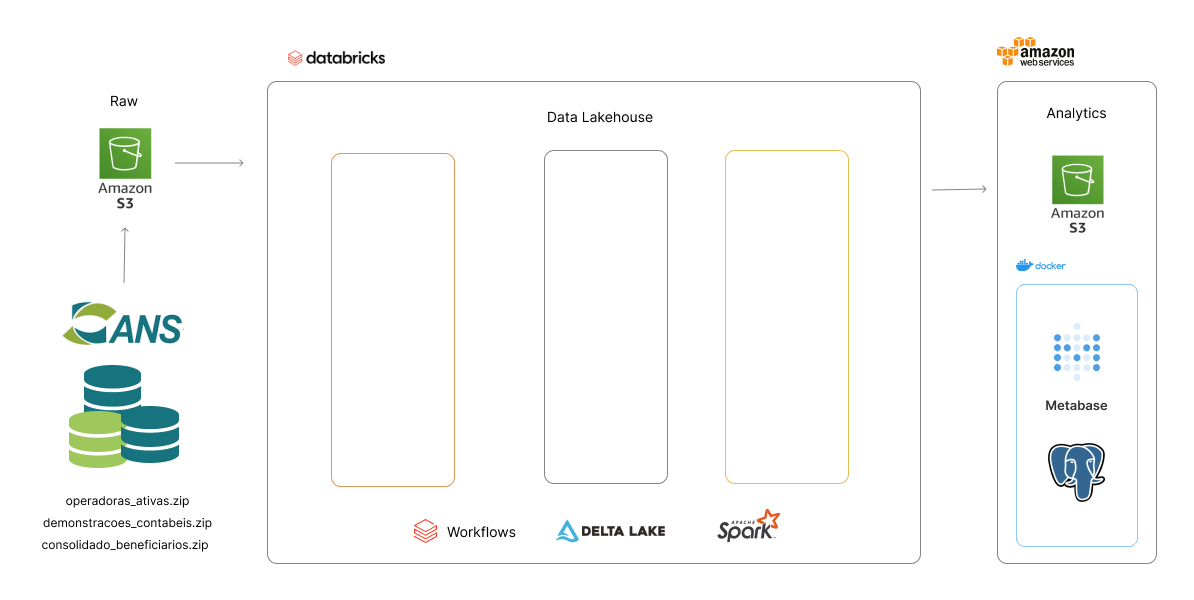
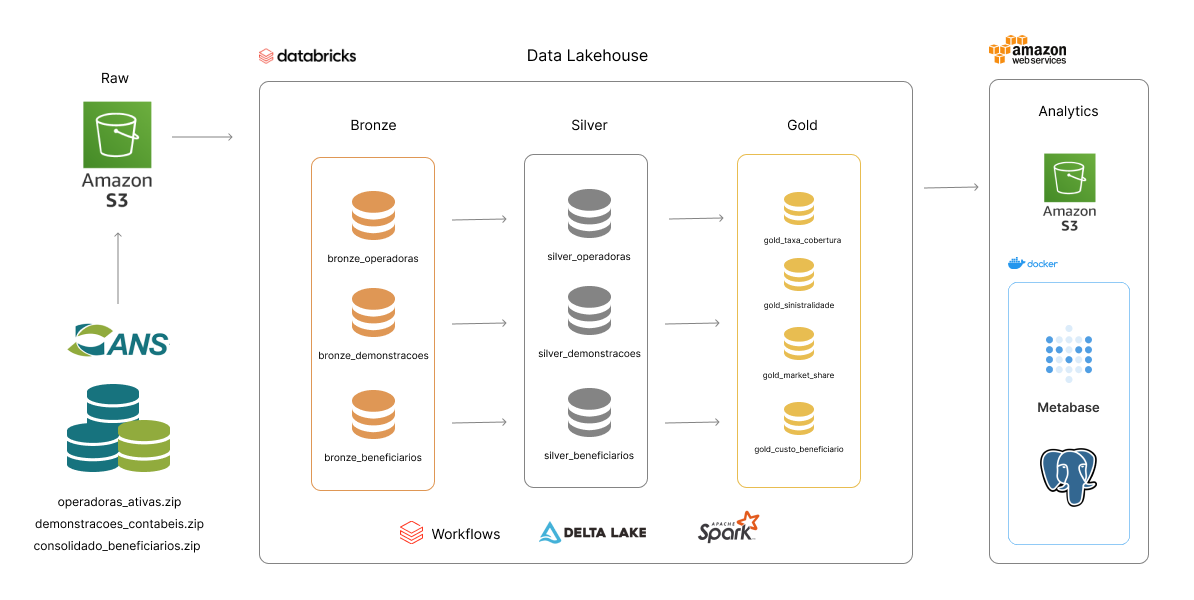
Documentação do projeto #2

diff --git a/README.md b/README.md
@@ -15,7 +15,15 @@ Trabalho de conclusão do módulo de Engenharia de Dados do curso de Pós-gradua
 - [3. Modelagem](#modelagem)
   - [3.1 Delta Lakehouse](#delta-lakehouse)
   - [3.2 Linhagem dos Dados](#linhagem-dos-dados)
+  - [3.3 Exemplo: Custo por Beneficiário](#exemplo-custo-por-beneficiário)
 - [4. Carga](#carga)
+  - [4.1 Export para AWS](#export) 
+  - [4.2 Databricks Workflows](#databricks-workflows)
+- [5. Análise](#análise)
+  - [5.1 Qualidade](#qualidade)
+  - [5.2 Perguntas](#perguntas-1)
+  - [5.3 Metabase](#metabase)
+- [6. Autoavaliação](#autoavaliação)
 
 ## Objetivo
 
@@ -49,11 +57,11 @@ As perguntas/problemas que desejo responder através das análises são:
 
 ## Coleta
 
-A ANS disponbiliza todos os seus dados abertos através de um servidor FTP em sua Plataforma de Dados Abertos, que pode ser acessado através do [link](https://dadosabertos.ans.gov.br/FTP/PDA/).
+A ANS disponbiliza todos os seus dados através de um servidor FTP em sua Plataforma de Dados Abertos, que pode ser acessado através do [link](https://dadosabertos.ans.gov.br/FTP/PDA/).
 
 Os dados tem boa qualidade, no geral, e são bem organizados, sendo a grande maioria acompanhada de uma arquivo de metadados ou catálogo. Algums catálogos informam, inclusive, que alguns campos são chaves estrangeiras de tabelas em outros conjuntos de dados, o que é muito útil.
 
-Alguns dados utlizados, como apresentado, tem grandes volumes, como o cadastro de beneficiário ativos, divulgado mensalmennte, que possui cerca de 10GB em arquivos .csv, totalizando cerca de 14,5 milhões de registros e 22 atributos.
+Alguns dados utlizados, como apresentado, tem grandes volumes, como o cadastro de beneficiário ativos, divulgado mensalmennte, que possui cerca de 10 GB em arquivos .csv, totalizando cerca de 14,5 milhões de registros e 22 atributos.
 
 Os dados são disponibilizados em arquivos compactados .zip, por isso, o código para coleta de dados envolvia, quase sempre, extrair os arquivos, lê-los em memória, e salvar em um volume no Databricks, que serviu como landing/camada raw.
 
@@ -137,38 +145,148 @@ class Collector:
 
 ## Modelagem
 
-O modelo de dados escolhido para o trabalho foi o Data Lake, que consiste salvar em um storage dados estruturados e não-estruturados, sem um schema definido, que serão trabalhados em outras etapas ou consumidos por aplicações.
+O modelo escolhido para o trabalho foi o Data Lake, que consiste em salvar os dados estruturados e não-estruturados, sem um schema definido, que serão trabalhados em outras etapas ou consumidos por aplicações.
 
-O problema dos data lakes tradicionais é que os dados são salvos da mesma forma que foram capturados, o que significa - geralmente - que esses dados tem baixa qualidades e não passaram por *constrains* e camadas de processamentos.
+O problema dos data lakes tradicionais é que os dados são salvos da mesma forma que foram capturados, o que significa - geralmente - que esses dados tem baixa qualidades e não passaram por *constrains* e camadas de processamento.
 
 ### Delta Lakehouse
 
-Uma solução para esse problema, muito utilizada na plataforma do Databricks, é o framework open-source **Delta Lake** e a arquitura de Data Lakehouses.
+Uma solução para esse problema, muito utilizada na plataforma do Databricks pela fácil integração, é o framework open-source **Delta Lake** e a arquitura de Data Lakehouses.
 
-Esse framework consiste em uma camada de abstração construída em cima do seu data lake tradicional (Amazon S3, por exemplo), que incentiva a criação de fluxos de dados em camadas, em que cada camada o dado é tratado e é incrementado em nívle de qualidade.
+Esse framework consiste em uma camada de abstração construída em cima do seu data lake tradicional (Amazon S3, por exemplo), que incentiva a criação de fluxos de dados em camadas, em que cada camada o dado é tratado e é trabalhado em níveis incrementais de qualidade.
 
 Essas camadas são:
 
-- **Bronze:** tabelas em formato bruto, com máximo de fidelidade ao dado coletado;
+- **Bronze:** tabelas em formato bruto, com máximo de fidelidade ao dado original coletado;
 - **Silver:** tabelas com estrutura e schema definidos, realizada limpeza e enriquecimento nos dados;
 - **Gold:** tabelas agregadas com métrias de interesse de acordo com a regra de negócio.
 
 ![Delta Lake](/images/delta-lake.png)
 
-### Linhagem dos Dados
+### Linhagem dos Dados e Metastore
 
-A pipeline construída no trabalho utiliza o framework Delta e as tabelas são processadas em camadas bronze, silver e gold. Para ilustrar esse processo de modelagem, podemos observar a linhagem da tabela "gold.ans.custo_beneficiario", que utiliza 3 tabelas bronze como fonte.
+A pipeline do trabalho utiliza o framework Delta e as tabelas são processadas em camadas bronze, silver e gold. 
+
+Ao salvar as tabelas em formato `delta` e utilizando o Unity Catalog, é possível usufruir de funcionalidades integradas do **metastore** do Databricks, como controle de acesso, métrica de uso, visualização de schema e linhagem dos dados.
+
+Para ilustrar essa funcionalidade, podemos observar o diagram de linhagem da tabela `gold.ans.custo_beneficiario`, que utiliza 3 (três) tabelas bronze como fonte primária.
 
 ![Linhagem do Custo por Beneficiário](/images/custo-beneficiario-lineage.png)
 
-Podemos observar como as tabelas na camada bronze (à esquerda da imagem) possuem mais dimensionalidade e, conforme as tabelas avançam no fluxo, é definido um schema, até chegar na tabela *gold* que será consumida para *analystics*.
+Podemos observar o *schema* das tables e como na camada bronze (à esquerda da imagem) essas tabelas possuem maior dimensionalidade, além de dados em tipos inapropriados, nomes de colunas de diferentes formatos, entre outras características de dados com menos qualiades.
 
-A tabela final possui apenas 3 (três) domínios:
+Um exemplo é a coluna "CNPJ" da tabela `bronze.ans.operadoras`, que ao ser lida pelo Spark, foi inferida com tipo `bigint`, enquanto o correto seria `string`. Essa transformação é feita na camada silver e na tabela `silver.ans.operadoras` já podemos ver a mudança feita. 
+
+O código utilizado para transformação desses dados na camada silver pode ser encontrado em [/src/silver/silver_operadoras.py](https://github.com/ianaraujo/puc-engenharia-dados/blob/master/src/silver/silver_operadoras.py).
+
+silver_operadoras.py
+
+```python
+df = spark.sql(f'SELECT * FROM bronze.{schema}.{table}')
+
+upper_cols = [col.upper() for col in df.columns]
+
+df = df.toDF(*upper_cols)
+
+final = df \
+    .withColumn('REGISTRO_ANS', df['REGISTRO_ANS'].cast('string')) \
+    .withColumn('RAZAO_SOCIAL', F.regexp_replace(F.col('RAZAO_SOCIAL'), r'[./]', '')) \
+    .withColumn('RAZAO_SOCIAL', F.regexp_replace(F.col('RAZAO_SOCIAL'), r'\b(LTDA|SA|EIRELI|ME|EPP)\b', '')) \
+    .withColumn('RAZAO_SOCIAL', F.regexp_replace(F.col('RAZAO_SOCIAL'), r' - $', '')) \
+    .withColumn('CNPJ', df['CNPJ'].cast('string')) \
+    .select(
+        'DATA_REGISTRO_ANS',
+        'REGISTRO_ANS',
+        'CNPJ',
+        'RAZAO_SOCIAL',
+        'NOME_FANTASIA',
+        'MODALIDADE'
+    )
+
+final = final.withColumn('NOME_FANTASIA', F.when(
+    F.col('NOME_FANTASIA').isNull(), F.col('RAZAO_SOCIAL')).otherwise(F.col('NOME_FANTASIA')
+))
+
+
+final.write.mode('overwrite').format('delta').saveAsTable(f'silver.{schema}.{table}')
+```
+
+Destaque para o código que transforma os dados da coluna "CNPJ" em `string`.
+
+```python
+.withColumn('CNPJ', df['CNPJ'].cast('string'))
+```
+
+Além dessa transformação, na camada `silver`, é feito um tratamento da "RAZAO_SOCIAL", removendo termos comuns (LTDA, SA, EIRELI). Quando "NOME_FANTASIA" é `NULL`, o código substitui pela razão social.
+
+### Exemplo: Custo por Beneficiário
+
+Dessa forma, conforme as tabelas avançam no fluxo, é definido um schema, até chegar na tabela *gold* que será consumida no ambiente de *analytics*.
+
+A tabela `gold.ans.custo_beneficiario`, que calcula um indicador setorial relacionado à eficiência da operadora, é um bom exemplo, pois utiliza todas as 3 (três) fontes primárias para ser construída.
+
+Nessa camada, na maioria dos casos, utilizei a linguagem SQL para criar as tabelas:
+
+[custo_beneficiario.sql](https://github.com/ianaraujo/puc-engenharia-dados/blob/master/src/gold/custo_beneficiario.sql)
+
+```sql
+CREATE OR REPLACE TABLE gold.ans.custo_beneficiario
+USING DELTA AS (
+  WITH despesas AS (
+    SELECT ANO, REG_ANS, AVG(VL_SALDO_INICIAL) AS TOTAL_DESPESAS
+    FROM silver.ans.demonstracoes_contabeis
+    WHERE ANO = 2023 AND CD_CONTA_CONTABIL = '41'
+    GROUP BY ANO, REG_ANS
+  ),
+
+  beneficiarios AS (
+    SELECT CD_OPERADORA, SUM(TOTAL_BENEFICIARIOS) AS NUM_BENEFICIARIOS
+    FROM gold.ans.num_beneficiarios
+    GROUP BY CD_OPERADORA
+  ),
+
+  operadoras AS (
+    SELECT * FROM silver.ans.operadoras
+    WHERE LOWER(MODALIDADE) NOT LIKE '%odonto%'
+  )
+
+  SELECT d.REG_ANS, o.NOME_FANTASIA, ROUND(d.TOTAL_DESPESAS / b.NUM_BENEFICIARIOS, 2) AS CUSTO_BENEFICIARIO
+  FROM despesas AS d
+  LEFT JOIN beneficiarios AS b ON d.REG_ANS = b.CD_OPERADORA
+  LEFT JOIN operadoras AS o ON d.REG_ANS = o.REGISTRO_ANS
+  WHERE b.NUM_BENEFICIARIOS > 0 AND d.TOTAL_DESPESAS > 0
+);
+```
+
+Ao final do fluxo de transformações, a tabela na camada `gold` possui apenas 3 (três) domínios, seguindo o catálogo abaixo:
 
 | Variável | Tipo de Dado | Descrição |
 | -------- | ------------ | --------- |
 | REG_ANS | string | Código ANS de identificação da operadora |
 | NOME_FANTASIA | string | Nome fantasia da operadora |
 | CUSTO_BENEFICIARIO | double | Custo por beneficiário em reais (R$) por trimestre |
+
+Essa tabela final está pronta para ser consumida por dashboards ou por *stakeholders* dentro da organização, sendo possível rankear as empresas da mais eficiene para menos eficientes, assim como fazer *joins* com outras tabelas, como `gold.ans.market_share`, e comparar a eficiência entre as líderes do mercado.
  
 ## Carga
+
+etl em linhas gerais
+onde estao o arquivos da pipelines
+
+### Export para AWS
+
+explicar estapa final do etl
+
+### Databricks Workflows
+
+orquestracao de pipelines
+
+## Análise
+
+### Qualidade
+
+### Perguntas
+
+### Metabase
+
+## Autoavaliação
